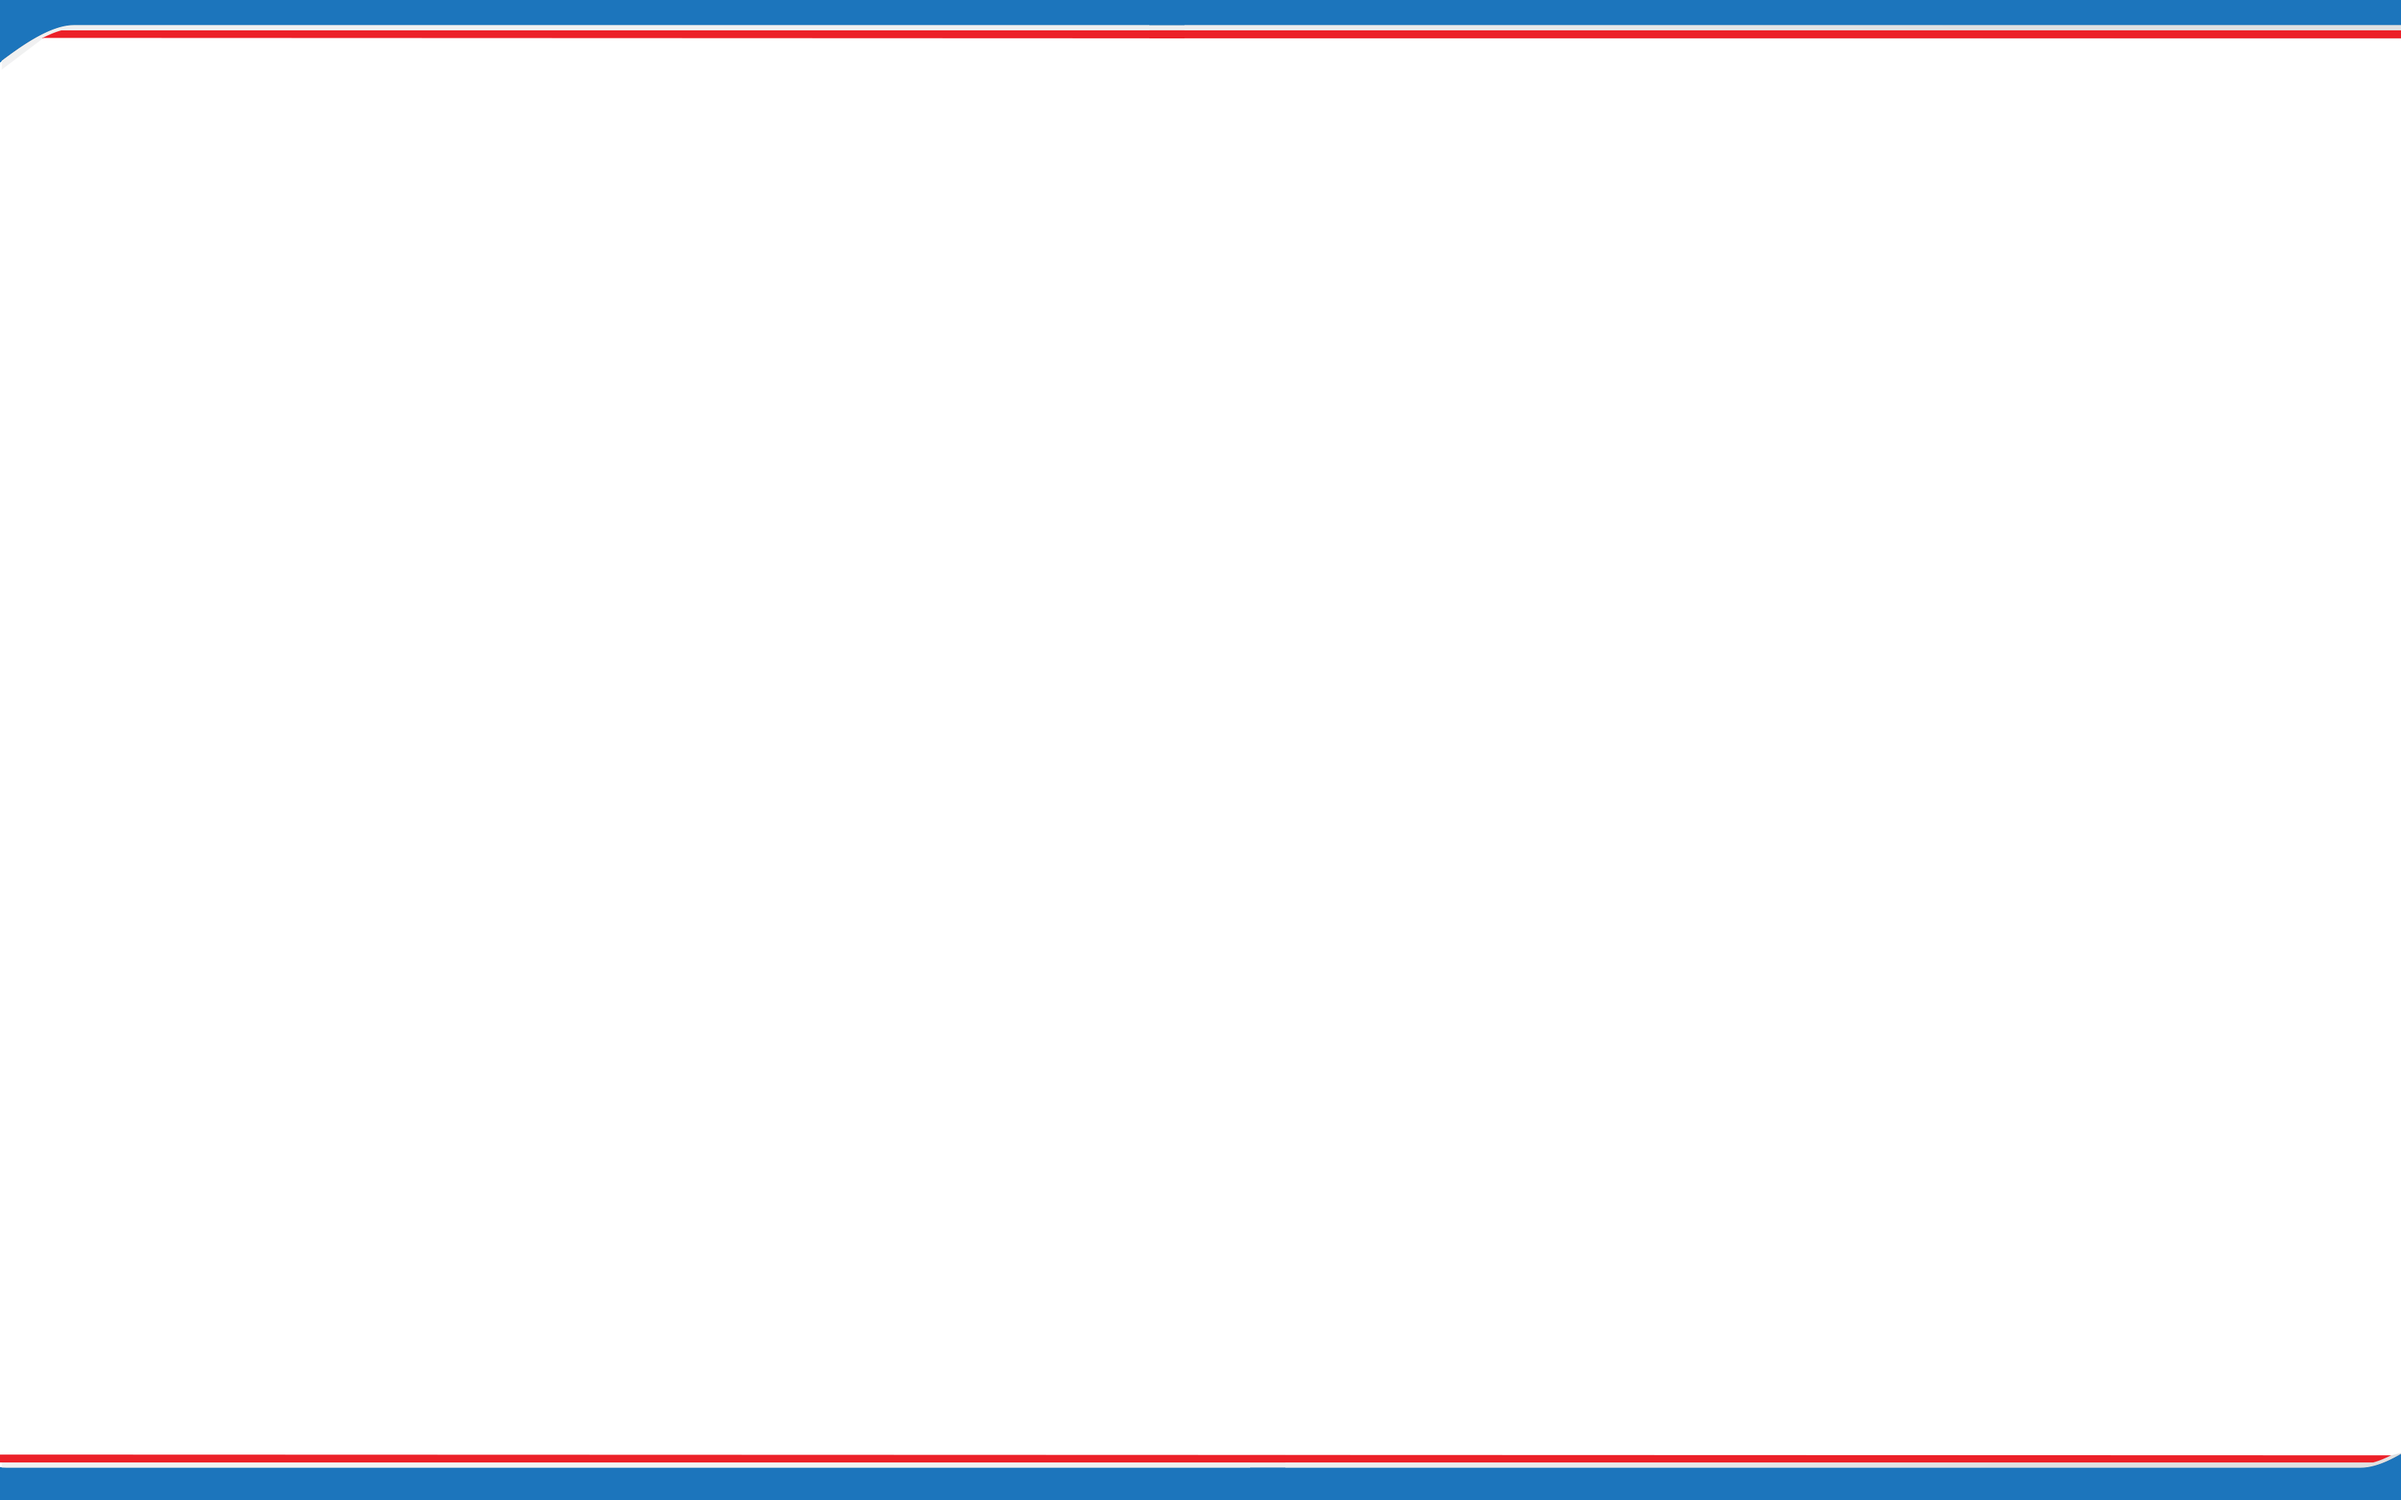
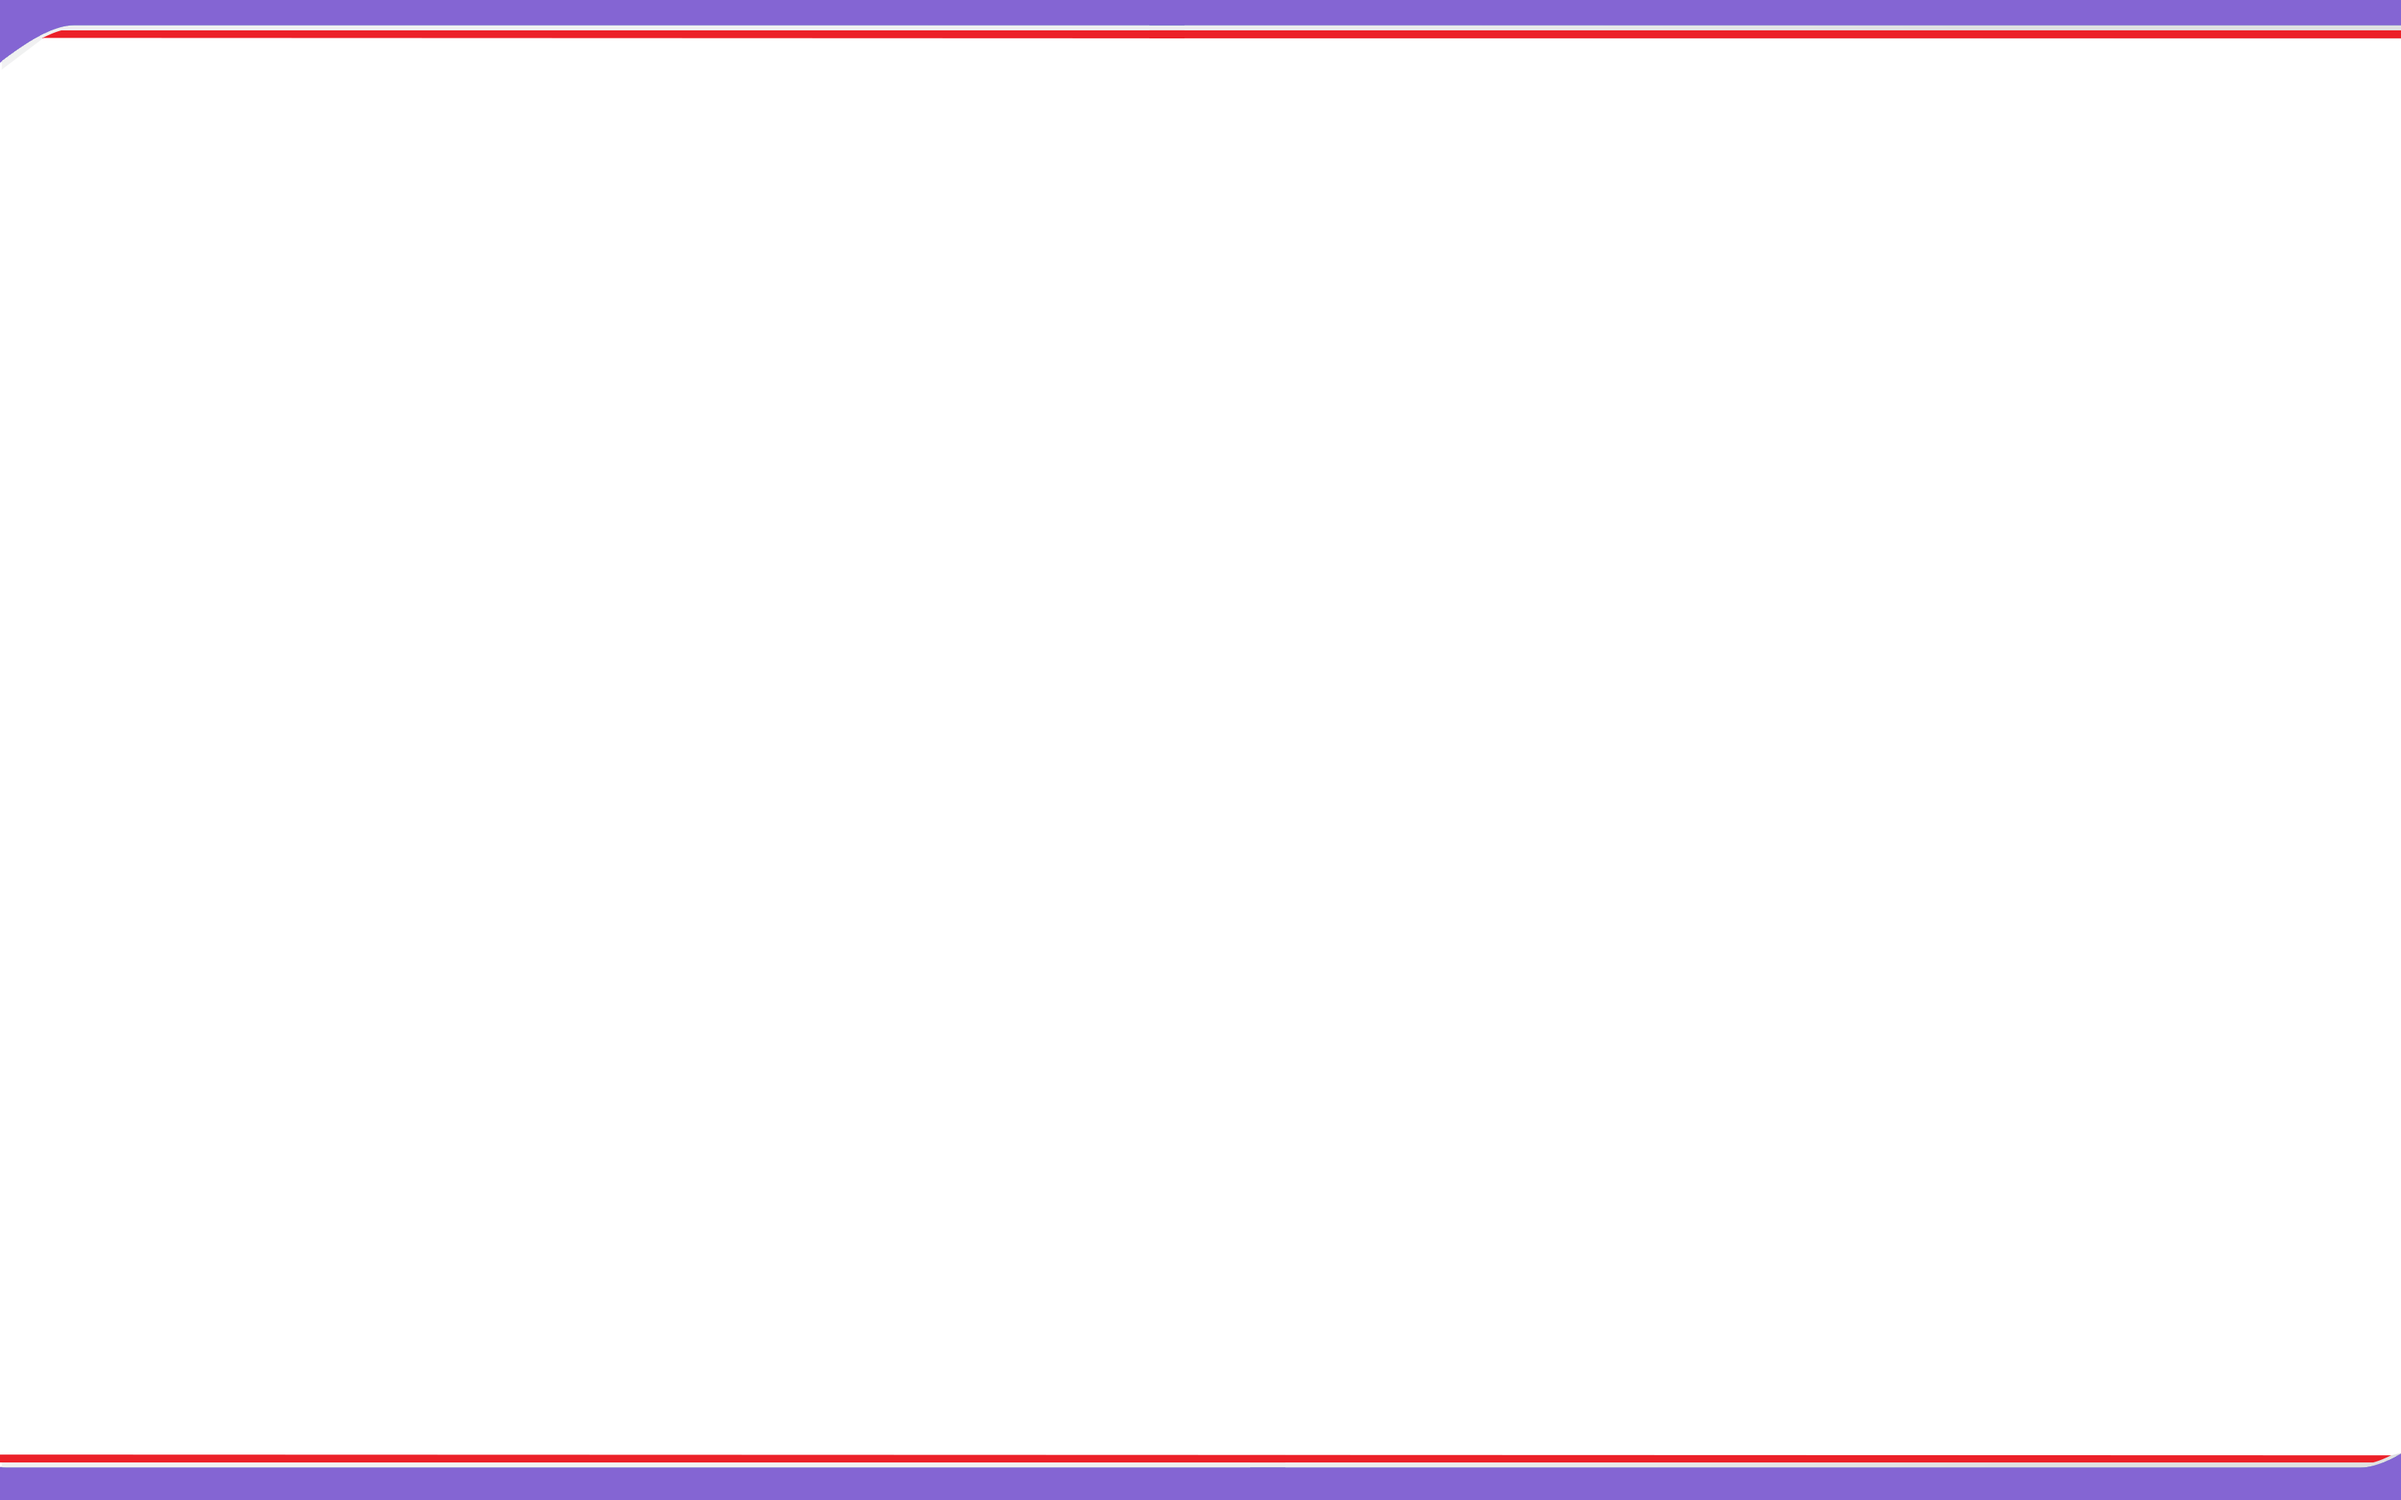
Change UI colors, need to change splash

Changed region(s): [[0.0, 0.9589, 1.0, 1.0], [0.0, 0.0, 1.0, 0.0309]]

diff --git a/src/qt/res/css/light.css b/src/qt/res/css/light.css
@@ -58,7 +58,7 @@ color:#333;
 }
 
 QToolBar > QToolButton:checked {
-background-color:#1c75bc;
+background-color:#8465d3;
 color:#fff;
 font-weight:bold;
 }
@@ -103,7 +103,9 @@ background-color:#f2f2f2;
 /*******************************************************/
 
 QPushButton { /* Global Button Style */
-background-color:qlineargradient(x1: 0, y1: 0, x2: 0, y2: 1, stop: .01 #4ca5dc, stop: .1 #2c85cc, stop: .95 #2c85cc, stop: 1 #1D80B5);
+/*background-color:qlineargradient(x1: 0, y1: 0, x2: 0, y2: 1, stop: .01 #4ca5dc, stop: .1 #2c85cc, stop: .95 #2c85cc, stop: 1 #1D80B5);
+*/
+background-color:#4b10b2; 
 border:0;
 border-radius:3px;
 color:#ffffff;
@@ -117,7 +119,8 @@ padding-bottom:5px;
 }
 
 QPushButton:hover {
-background-color:qlineargradient(x1: 0, y1: 0, x2: 0, y2: 1, stop: .01 #4ca5dc, stop: .1 #4ca5dc, stop: .95 #4ca5dc, stop: 1 #1D80B5);
+background-color:#6816f7
+/*background-color:qlineargradient(x1: 0, y1: 0, x2: 0, y2: 1, stop: .01 #4ca5dc, stop: .1 #4ca5dc, stop: .95 #4ca5dc, stop: 1 #1D80B5);*/
 }
 
 QPushButton:focus {
@@ -142,7 +145,7 @@ background:#f2f2f2;
 }
 
 QComboBox:editable {
-background: #1c75bc;
+background: #8465d3;
 color:#616161;
 border:0px solid transparent;
 }
@@ -278,7 +281,7 @@ background-color:transparent;
 
 QHeaderView::section { /* Table Header Sections */
 qproperty-alignment:center;
-background-color:qlineargradient(x1: 0, y1: 0, x2: 0, y2: 0.25, stop: 0 #1070B0, stop: 1 #1c75bc);
+background-color:qlineargradient(x1: 0, y1: 0, x2: 0, y2: 0.25, stop: 0 #1070B0, stop: 1 #8465d3);
 color:#fff;
 min-height:25px;
 font-weight:bold;
@@ -699,7 +702,7 @@ min-width:180px;
 }
 
 QDialog#RPCConsole QWidget#tab_peers  QLabel#peerHeading { /* Peers Info Header */
-color:#1c75bc;
+color:#8465d3;
 }
 
 QDialog#RPCConsole QPushButton#openDebugLogfileButton {
@@ -809,7 +812,7 @@ margin-left:16px;
 QWidget .QFrame#frame .QLabel#labelBalanceText { /* Available Balance Label */
 qproperty-alignment: 'AlignVCenter | AlignRight';
 min-width:160px;
-background-color:#1c75bc;
+background-color:#8465d3;
 color:#ffffff;
 margin-right:5px;
 padding-right:5px;
@@ -821,7 +824,7 @@ min-height:35px;
 QWidget .QFrame#frame .QLabel#labelBalance { /* Available Balance */
 qproperty-alignment: 'AlignVCenter | AlignLeft';
 font-size:16px;
-color:#1c75bc;
+color:#8465d3;
 margin-left:0px;
     font-weight: bold;
 }
@@ -913,7 +916,7 @@ QWidget .QFrame#framePrivateSend .QLabel#labelPrivateSendHeader { /* PrivateSend
 qproperty-alignment: 'AlignVCenter | AlignCenter';
 max-width: 421px;
 min-width: 421px;
-background-color:#1c75bc;
+background-color:#8465d3;
 color:#fff;
 margin-right: 5px;
 padding-right: 5px;
@@ -970,7 +973,7 @@ color:#818181;
 }
 
 QWidget .QFrame#framePrivateSend #privateSendFormLayoutWidget .QProgressBar#privateSendProgress::chunk {
-background-color: #1c75bc;
+background-color: #8465d3;
 width:1px;
 }
 
